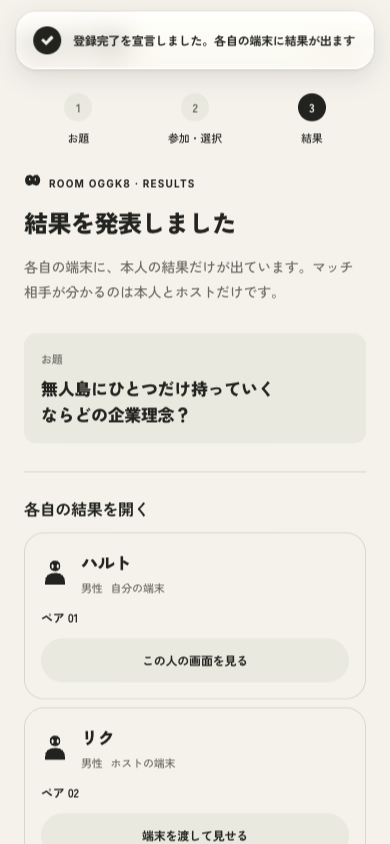
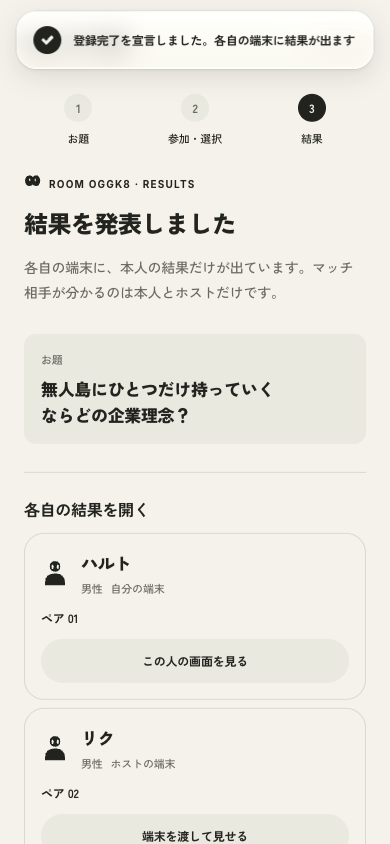
refactor: 色と動きの値を手で写していた所をなくした
- tokens.ts（SVG 用の paper と ink）を消した。Phosphor のアイコンと QR コードは currentColor で描き、
  色は CSS の var(--cp-ink) から取る
- 動きの時間は motion.ts の CSS_MOTION を原本にし、起動時に :root の --motion-* へ書き込む。
  tokens.css には書かない。「同じ」とされていた --motion-fade-reveal（200ms）と FADE.reveal（208.3ms）の
  ずれもなくなった

全画面の撮影は、動きの途中を撮る 04 と 09 以外、変更前と一致した。

diff --git a/src/styles/motion.ts b/src/styles/motion.ts
@@ -1,4 +1,4 @@
-// 動きの値（テーマ「判を押して、止まる」）。動きの時間・spring・easing はここと tokens.css の「動き」だけに書く。
+// 動きの値（テーマ「判を押して、止まる」）。動きの時間・spring・easing はここだけに書く（CSS で使う時間は CSS_MOTION）。
 // - 操作の層（ボタン・トースト）: Apple の spring。bounce は 0〜0.15（WWDC23 Animate with springs https://developer.apple.com/videos/play/wwdc2023/10158/ ）
 // - コンテンツの層（画面・カード・結果）: 速く打って、着地したら止める。着地の後は動かさない
 // - 記号の差し替え: 12fps のコマ打ち（LOVE DEATH + ROBOTS の title animation の「frames hold slightly too long」https://luckydumpling.github.io/motion-archive/entries/love-death-robots-title-animation/ ）
@@ -9,7 +9,7 @@
 // reduced motion では MotionConfig reducedMotion="user" が transform を止め、opacity だけが残る（https://motion.dev/docs/react-accessibility ）
 import type { Transition } from "motion/react";
 
-/** 12fps の 1 コマ（秒）。tokens.css の --motion-frame と同じ */
+/** 12fps の 1 コマ（秒） */
 export const FRAME = 1 / 12;
 
 /** 24fps の 1 コマ（秒、41.7ms）。時間はこの倍数に揃える */
@@ -171,6 +171,32 @@ export const REVEAL = {
   /** 名前・理念・ほかの区画を、上から何秒ずつずらすか（2 コマ） */
   stagger: TICK * 2,
 } as const;
+
+/**
+ * CSS の animation と transition で使う動きの時間（秒）。applyMotionVars が :root に --motion-* として書き込む。
+ * CSS には値を書かず、var(--motion-*) で読むだけにする
+ */
+export const CSS_MOTION = {
+  /** 12fps の 1 コマ。記号の差し替えは steps() でこの長さずつ進める */
+  frame: FRAME,
+  /** 選んだカードの印を描き込む（3 コマ） */
+  mark: FRAME * 3,
+  /** 結果の発表の後半で、ほかの区画を出す opacity */
+  fade: 0.15,
+  "fade-delay": 0.16,
+  /** reduced motion のとき、結果の発表を一度に出す opacity */
+  "fade-reveal": FADE.reveal.duration,
+  /** ガラスの上のボタンの塗り。押すと速く透明なガラスに変わり、離すと SPRING.glassRelease と同じ長さで戻る */
+  "glass-fill-in": 0.12,
+  "glass-fill-out": SPRING.glassRelease.visualDuration,
+} as const;
+
+/** CSS_MOTION を :root の CSS カスタムプロパティ（ms）として書き込む。描画の前に 1 回呼ぶ */
+export function applyMotionVars(root: HTMLElement = document.documentElement) {
+  for (const [name, seconds] of Object.entries(CSS_MOTION)) {
+    root.style.setProperty(`--motion-${name}`, `${Math.round(seconds * 1000 * 10) / 10}ms`);
+  }
+}
 
 /** 数え上げの減速（easeOutCubic）。12fps に量子化して使う */
 export const easeOutCubic = (t: number) => 1 - Math.pow(1 - t, 3);

diff --git a/src/styles/tokens.css b/src/styles/tokens.css
@@ -70,19 +70,7 @@
   /* 浮いた操作バーの高さ（約 113px）＋余白。足した値 */
   --floating-clearance: 160px;
 
-  /* 動き（テーマ「判を押して、止まる」）。JS で動かす値は src/styles/motion.ts にあり、ここと揃える。Framer にない値 */
-  /* 12fps の 1 コマ。記号の差し替えは steps() でこの長さずつ進める */
-  --motion-frame: 83ms;
-  /* 選んだカードの印を描き込む（3 コマ） */
-  --motion-mark: 250ms;
-  /* 結果の発表の後半で、ほかの区画を出す opacity */
-  --motion-fade: 150ms;
-  --motion-fade-delay: 160ms;
-  /* reduced motion のとき、結果の発表を一度に出す opacity（motion.ts の FADE.reveal と同じ） */
-  --motion-fade-reveal: 200ms;
-  /* ガラスの上のボタンの塗り。押すと速く透明なガラスに変わり、離すと motion.ts の SPRING.glassRelease と同じ長さで戻る */
-  --motion-glass-fill-in: 120ms;
-  --motion-glass-fill-out: 400ms;
+  /* 動きの時間（--motion-*）はここに書かない。src/styles/motion.ts の CSS_MOTION が原本で、起動時に :root へ書き込む */
 
   /* 開発パネル（?dev のときだけ出る）。Framer にない値 */
   --dev-bg: #111;

diff --git a/src/screens/ResultScreen.tsx b/src/screens/ResultScreen.tsx
@@ -7,7 +7,6 @@ import { TRIGGER_CONFIG } from "../game/triggers.ts";
 import { companyMeta, splitTitle, splitTitleBody, tagIcon, tagLabel, type TagIcon } from "../game/present.ts";
 import type { Archetype, MatchedPerson, MatchResult, UnmatchedPerson } from "../game/types.ts";
 import { BrandHeader, Button } from "../ui/components.tsx";
-import { COLOR } from "../styles/tokens.ts";
 import { PairLogo } from "../ui/symbols.tsx";
 import { navigate } from "../router.ts";
 import { RULES_PATH } from "./RulesScreen.tsx";
@@ -20,7 +19,7 @@ const FREE_GLYPHS: TagIcon[] = ["Sparkle", "Heart", "Intersect"];
 const PHOSPHOR_WEIGHT = "regular" as const;
 
 function PhIcon({ name, size }: { name: TagIcon; size: number }) {
-  const props = { size, color: COLOR.ink, weight: PHOSPHOR_WEIGHT, style: { display: "block", flexShrink: 0 } };
+  const props = { size, color: "currentColor", weight: PHOSPHOR_WEIGHT, style: { display: "block", flexShrink: 0, color: "var(--cp-ink)" } };
   if (name === "Sparkle") return <Sparkle {...props} />;
   if (name === "Heart") return <Heart {...props} />;
   return <Intersect {...props} />;

diff --git a/src/screens/host/HostRoom.tsx b/src/screens/host/HostRoom.tsx
@@ -9,7 +9,6 @@ import { pad2 } from "../../game/present.ts";
 import type { Gender, MatchedPerson } from "../../game/types.ts";
 import { navigate } from "../../router.ts";
 import { roomStore, useIsHost, useOfflineMode, type Room } from "../../store/index.ts";
-import { COLOR } from "../../styles/tokens.ts";
 import {
   BrandHeader,
   Button,
@@ -148,7 +147,7 @@ function HostLobby({ room }: { room: Room }) {
               <p className="t-small c-muted">参加者は自分のスマホで開き、ニックネームと性別を入れて参加します。</p>
             </div>
             <div className="cp-qr">
-              <QRCodeSVG value={url} size={176} bgColor={COLOR.paper} fgColor={COLOR.ink} level="M" marginSize={0} title={`ルーム ${room.id} の招待 URL`} />
+              <QRCodeSVG value={url} size={176} bgColor="transparent" fgColor="currentColor" level="M" marginSize={0} title={`ルーム ${room.id} の招待 URL`} />
             </div>
             <div className="cp-url">
               <span className="t-small cp-url__text">{url}</span>

diff --git a/src/screens/RulesScreen.tsx b/src/screens/RulesScreen.tsx
@@ -11,14 +11,13 @@ import {
 } from "../game/explain.ts";
 import { tagIcon, type TagIcon } from "../game/present.ts";
 import { navigate } from "../router.ts";
-import { COLOR } from "../styles/tokens.ts";
 import { BrandHeader, Button, ScreenMain, Section } from "../ui/components.tsx";
 
 /** 診断の説明の経路。about ページからもこの経路へリンクする */
 export const RULES_PATH = "/rules";
 
 function PhIcon({ name }: { name: TagIcon }) {
-  const props = { size: 14, color: COLOR.ink, weight: "regular" as const, style: { display: "block", flexShrink: 0 } };
+  const props = { size: 14, color: "currentColor", weight: "regular" as const, style: { display: "block", flexShrink: 0, color: "var(--cp-ink)" } };
   if (name === "Sparkle") return <Sparkle {...props} />;
   if (name === "Heart") return <Heart {...props} />;
   return <Intersect {...props} />;

diff --git a/src/main.tsx b/src/main.tsx
@@ -12,6 +12,10 @@ import "./styles/tokens.css";
 import "./styles/app.css";
 import "./styles/result.css";
 import App from "./App.tsx";
+import { applyMotionVars } from "./styles/motion.ts";
+
+// CSS で使う動きの時間を、motion.ts から :root に書き込む（値の原本は motion.ts だけにする）
+applyMotionVars();
 
 createRoot(document.getElementById("root")!).render(
   <StrictMode>

diff --git a/src/styles/app.css b/src/styles/app.css
@@ -585,6 +585,8 @@ html:has(.cp-floating) {
   background: var(--cp-paper);
   border: 1px solid var(--cp-line);
   line-height: 0;
+  /* QR コードの点は currentColor で描く */
+  color: var(--cp-ink);
 }
 .cp-url {
   display: flex;
